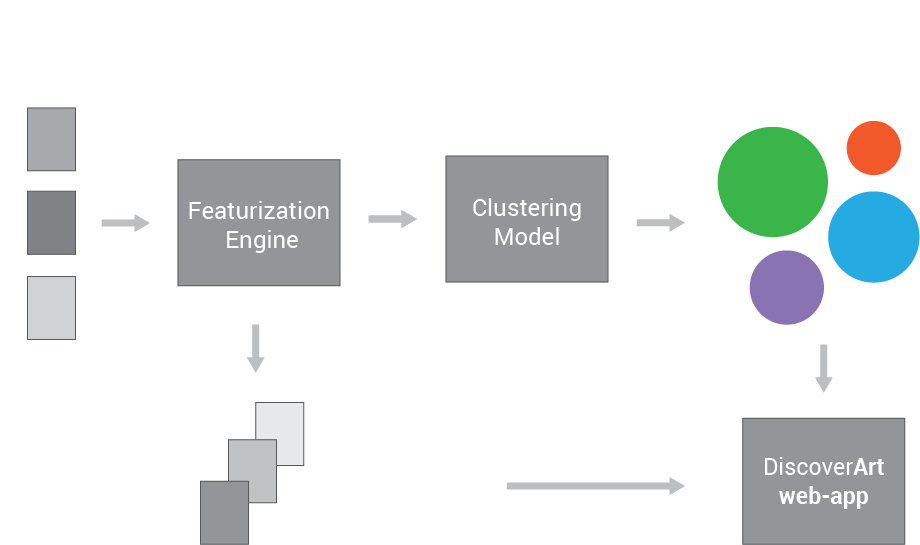
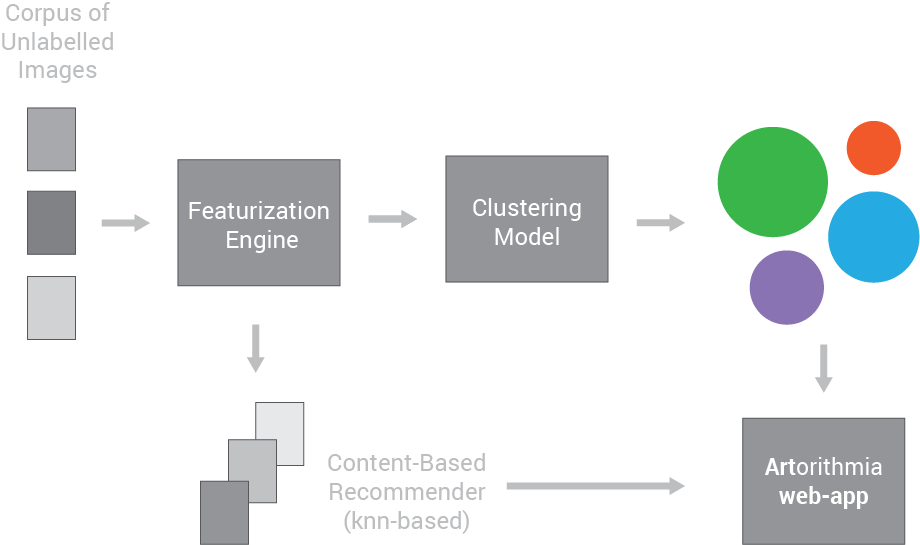
added hover over images to the site

Changed region(s): [[0.3652, 0.8422, 0.5478, 0.967], [0.0, 0.0, 0.1217, 0.156], [0.8217, 0.8422, 0.9739, 0.8734]]

diff --git a/app/templates/index.html b/app/templates/index.html
@@ -108,12 +108,39 @@
         <div class="row">
             <div class="col-lg-8 col-lg-offset-2">
                 <h2>About Artorithmia</h2>
-                <p>There's a lot of amazing art out there, far too much to
-                  explore on your own. Using the power of machine learning
-                  and artist know-how Artorithmia makes the process of
-                  finding pieces you like smarter and more fun.</p>
+                <p>Artorithmia is a collection of algorithms built specifically for
+                analyzing 2D artwork. Artorithmia pulls features out of works of art and can then
+                cluster them into different groups using agnostic <a class="page-scroll" href="#science">features</a>. This project is a collaboration with
+                Seattle-based startup <a href='http://www.drizl.co'>Drizl</a>.</p>
+
+                <h3>The Problem</h3>
+                <p> How would you describe these pieces? Impressionist? Brutalist? Figure-Ground?</p>
+                <ul class="photo-grid">
+                  <li>
+                			<figure>
+                				<img src="https://res.cloudinary.com/drizlalpha/image/upload/w_400/penelope35/art/wbjmymbdkuu10mtbracf.jpg" height="180" width="320" alt="Portrait">
+                				<figcaption><p>Portrait</p></figcaption>
+                			</figure>
+                	</li>
+              	<li>
+              			<figure>
+              				<img src="https://res.cloudinary.com/drizlalpha/image/upload/w_400/jenileeart/art/vocz51virr8shbjrbgbk.jpg" height="180" width="320" alt="Landscape">
+              				<figcaption><p>Abstract Landscape</p></figcaption>
+              			</figure>
+              	</li>
+
+              </ul>
+
+              <p>What if you didn't know the accepted terminology? Labels on art are restrictive and impose barriers to new entrants to the market.</p>
+
+        <h3>The Goal</h3>
+
+                <p>Build a smarter way for people to find art.</p>
+
             </div>
             <div class="row">
+              <div class="col-lg-8 col-lg-offset-2">
+                <h2>Project Pipeline</h2>
                     <img src="static/img/pipeline.png" align="center" width='800px'></img>
             </div>
         </div>
@@ -122,7 +149,12 @@
     <!-- Science Section -->
     <section id="science" class="container content-section text-center">
         <div class="row">
-                <h2>Feature Extraction</h2>
+            <div class="col-lg-8 col-lg-offset-2">
+              <h2>Feature Extraction</h2>
+
+          <p>In order to determine the similarities and differences between pieces of art, features have to be pulled from each image. </p>
+              </div>
+
                 <img src="static/img/art_features.png" align="center"></img>
         </div>
     </section>
@@ -191,9 +223,6 @@
                 <p><a href="mailto:aaron@aaronlichtner.com">aaron@aaronlichtner.com</a>
                 </p>
                 <ul class="list-inline banner-social-buttons">
-                    <li>
-                        <a href="https://twitter.com/SBootstrap" class="btn btn-default btn-lg"><i class="fa fa-twitter fa-fw"></i> <span class="network-name">Twitter</span></a>
-                    </li>
                     <li>
                         <a href="https://github.com/alichtner" class="btn btn-default btn-lg"><i class="fa fa-github fa-fw"></i> <span class="network-name">Github</span></a>
                     </li>

diff --git a/app/static/css/custom.css b/app/static/css/custom.css
@@ -54,3 +54,88 @@ li.likedimages {
     background-repeat: no-repeat;
     background-size: cover;
 }
+
+.photo-grid {
+	margin: 1em auto;
+	max-width: 1106px;
+	text-align: center;
+}
+
+.photo-grid li {
+	display: inline-block;
+	margin: 1em;
+	width: 289px;
+}
+
+.photo-grid img {
+	display: block;
+	height: auto;
+	max-width: 100%;
+}
+
+.photo-grid figure {
+	height: 163px;
+	overflow: hidden;
+	position: relative;
+	width: 289px;
+}
+
+.photo-grid figcaption {
+	background: rgba(0,0,0,0.8);
+	color: white;
+	display: table;
+	height: 100%;
+	left: 0;
+	opacity: 0;
+	position: absolute;
+	right: 0;
+	top: 0;
+	z-index: 100;
+}
+
+.photo-grid figcaption p {
+	display: table-cell;
+	font-size: 1.5em;
+	position: relative;
+	top: -40px;
+	width: 289px;
+	vertical-align: middle;
+}
+
+.photo-grid li:hover figcaption {
+	opacity: 1;
+}
+
+.photo-grid img {
+	display: block;
+	height: auto;
+	-webkit-transition: all 300ms;
+	-moz-transition: all 300ms;
+	transition: all 300ms;
+	max-width: 100%;
+}
+
+.photo-grid li:hover img {
+	-webkit-transform: scale(1.4);
+	-moz-transform: scale(1.4);
+	transform: scale(1.4);
+}
+
+.photo-grid figcaption {
+	background: rgba(0,0,0,0.8);
+	color: white;
+	display: table;
+	height: 100%;
+	left: 0;
+	opacity: 0;
+	position: absolute;
+	right: 0;
+	top: 0;
+	-webkit-transition: all 300ms;
+	-moz-transition: all 300ms;
+	transition: all 300ms;
+	-webkit-transition-delay: 100ms;
+	-moz-transition-delay: 100ms;
+	transition-delay: 100ms;
+	z-index: 100;
+}

diff --git a/app/app.py b/app/app.py
@@ -84,6 +84,7 @@ if __name__ == '__main__':
     df['medium'] = df['medium'].fillna('Unknown')
     df['width'] = np.round(df['width'] / 12, 1)
     df['height'] = np.round(df['height'] / 12, 1)
+    df['retail_price'] = np.where(df['retail_price'] == 0.0, 'NA', df['retail_price'])
 
     rec = gl.load_model('data/recommender')   # not sure why this needs the 'app'
     app.secret_key = 'Hjadfjlji1909389283'

diff --git a/CRISP-DM.md b/CRISP-DM.md
@@ -18,8 +18,21 @@ The Drizl collection consists of approximately 700 jpeg images of art, each with
 
 A significant amount of time was spent on the feature engineering segment of this project. It was necessary to devise methods to adequately capture differences in different pieces of artwork. A number of image related modules including `openCV`, `colorthief` and `PIL` were used for featurizing the images.
 
-A graphlab neural network derived from `image_net` data was initially built to extract features from images, but it was decided that interpretability was an important quality in any models that were built. 
+A graphlab neural network derived from `image_net` data was initially built to extract features from images, but it was decided that interpretability was an important quality in any models that were built.
 
 4. Modeling
 5. Deployment
 6. Evaluation
+
+<p>There's a lot of amazing art out there, far too much to
+  explore on your own. Using the power of machine learning
+  and artist know-how, Artorithmia makes the process of
+  finding pieces you like smarter and more fun.</p>
+
+  <p>We start with a collection (corpus) of artwork. These are fed into
+  Artorithmia's feature engine which pulls out features relating to color,
+  composition, technique and more. Then, just as we can map a place on Earth
+  using latitude and longitude coordinates, we can map each piece of art onto k-dimensional "taste" space.</p>
+
+  <p>Artorithmia's recommender is like a GPS for art that you love. It triangulates works of
+  art similar to the ones you like.</p>
